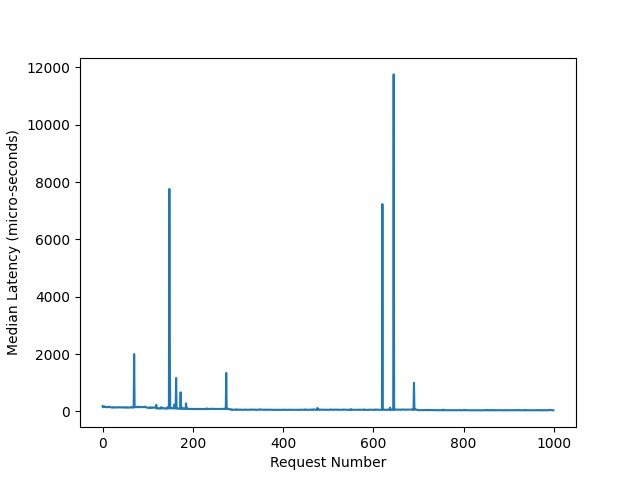
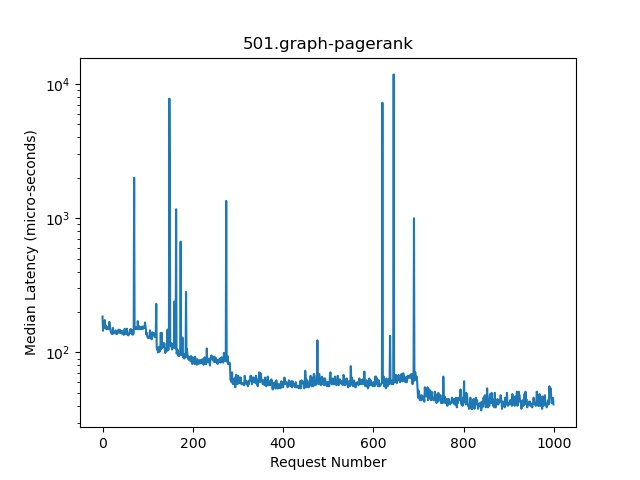
refactor: minor refactors and README added

diff --git a/utilities/grapher.py b/utilities/grapher.py
@@ -12,5 +12,7 @@ df = pd.DataFrame({
 
 plt.xlabel('Request Number')
 plt.ylabel('Median Latency (micro-seconds)')
+plt.yscale("log")
 plt.plot('x_axis', 'y_axis', data=df, linestyle='-')
+plt.title(f"{sys.argv[1]}")
 plt.savefig(f'../graphs/{sys.argv[1]}.jpeg')

diff --git a/README.md b/README.md
@@ -1,3 +1,58 @@
+<div id="top"></div>
+
+<!-- PROJECT SHIELDS -->
+<!--
+*** I'm using markdown "reference style" links for readability.
+*** Reference links are enclosed in brackets [ ] instead of parentheses ( ).
+*** See the bottom of this document for the declaration of the reference variables
+*** for contributors-url, forks-url, etc. This is an optional, concise syntax you may use.
+*** https://www.markdownguide.org/basic-syntax/#reference-style-links
+-->
+[![Contributors][contributors-shield]][contributors-url]
+![Commit][commit-shield]
+[![Forks][forks-shield]][forks-url]
+[![Stargazers][stars-shield]][stars-url]
+[![Issues][issues-shield]][issues-url]
+
+
+
+<!-- PROJECT LOGO -->
+<br />
+<div align="center">
+
+  <h3 align="center">Localr</h3>
+
+  <p align="center">
+    An end-to-end pipeline to run, process and visualize benchmarks locally.
+    <br />
+    <a href="#"><strong>Explore the docs »</strong></a>
+    <br />
+    <br />
+    <a href="#">View Demo</a>
+    ·
+    <a href="#">Report Bug</a>
+    ·
+    <a href="#">Request Feature</a>
+  </p>
+</div>
+
+
+
+<!-- MARKDOWN LINKS & IMAGES -->
+<!-- https://www.markdownguide.org/basic-syntax/#reference-style-links -->
+[contributors-shield]: https://img.shields.io/github/contributors/Alphacode18/Localr?style=for-the-badge
+[contributors-url]: https://github.com/Alphacode18/Localr/graphs/contributors
+[commit-shield]: https://img.shields.io/github/commit-activity/w/Alphacode18/Localr?style=for-the-badge
+[forks-shield]: https://img.shields.io/github/forks/Alphacode18/Localr?style=for-the-badge
+[forks-url]: https://github.com/Alphacode18/Localr/network/members
+[stars-shield]: https://img.shields.io/github/stars/Alphacode18/Localr?style=for-the-badge
+[stars-url]: https://github.com/Alphacode18/Localr/stargazers
+[issues-shield]: https://img.shields.io/github/issues/Alphacode18/Localr?style=for-the-badge
+[issues-url]: https://github.com/Alphacode18/Localr/issues
+[license-shield]: https://img.shields.io/github/license/Alphacode18/Localr?style=for-the-badge
+[license-url]: https://github.com/Alphacode18/Localr/blob/master/LICENSE.txt
+
+
 ## Getting Started
 
 ```sh
